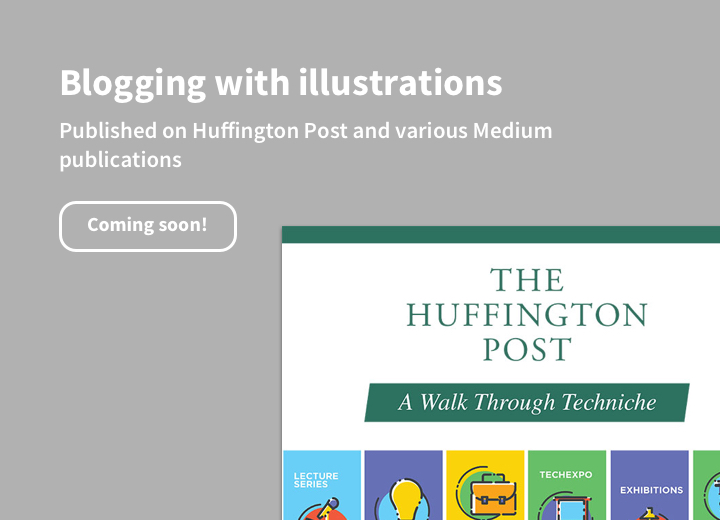
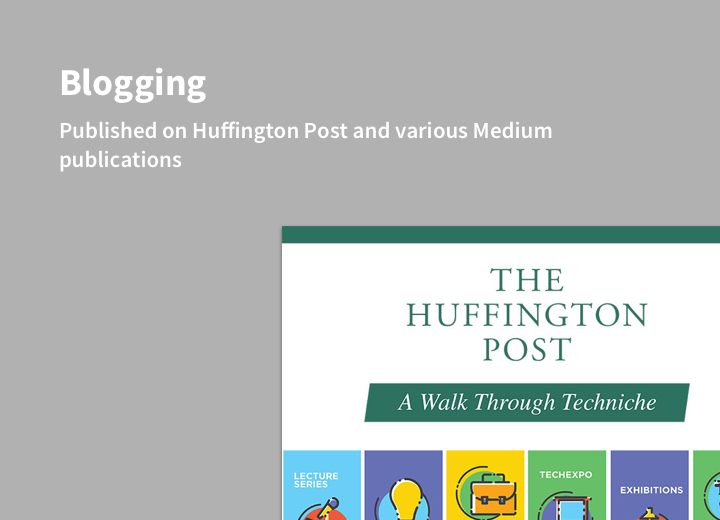
Adding blogs+dividing images

Changed region(s): [[0.0917, 0.3692, 0.3361, 0.4923], [0.275, 0.1231, 0.7028, 0.1846], [0.0611, 0.4, 0.0917, 0.4615]]

diff --git a/blog.html b/blog.html
@@ -73,164 +73,44 @@
         <header>
             <div class="container">
                 <div class="row">
-                    <div class="col-lg-12" style="margin-top:10%">                        
-                            <span class="align left" style="font-weight:700; font-size:50px; color:#f05455 !important"> Hello—I'm Chhavi!</span>
+                    <div class="col-lg-12" style="margin-top:3%">                     
+                            
+                            <img src="img/blog/blog0.jpg" class="img-responsive img-centered" alt="">
+                        
+                            <a href="https://www.huffingtonpost.com/entry/come-and-be-a-part-of-one-of-the-largest-techno-management_us_57a2a966e4b0f019c3e4c29a" target="_blank">
+                                <img src="img/blog/blog1.jpg" class="img-responsive img-centered" alt="">
+                            </a>
+
+                            <a href="https://medium.com/@chhavi.justme/open-source-design-and-life-lessons-abd43afb93c0" target="_blank">
+                            <img src="img/blog/blog2.jpg" class="img-responsive img-centered" alt="">
+                            </a>
+
+                            <a href="https://medium.com/@chhavi.justme/everyday-humor-8c6cef51f76b" target="_blank">
+                            <img src="img/blog/blog3.jpg" class="img-responsive img-centered" alt=""> 
+                            </a>                           
                             <br>
                             <br>
                             <br>
-                            <br>
-                            <span class="align left" style="font-size:24px">I'm a UX designer at Nutanix. I have a knack for writing for <br>interfaces to make them sound a bit more human.    
-                            </span>
-                            <br>
-                            <br>
-                            <br>                     
+                            <br>                           
+                                               
                     </div>
                 </div>
             </div>
-        </header>  
-
-        <!-- Writing Grid Section -->
-    <div id="content">
-        <section id="portfolio">
-            <div class="container">
-                <div class="row" style="margin-top:8%">
-                    <div>
-                        <span class=" col-lg-12 align left" style="font-size:18px;  font-weight:700; color:#f05455">WRITING FOR BRANDS AND INTERFACES</span>
-                        <span class="col-lg-12 align left" style="font-size:18px">I write to streamline the user flow, increasing the social media presence, and defining the tone and voice of a brand.  </span>
-                    </div>                  
-                </div>               
-
-
-                <div class="row" style="margin-top:3%">
-                    <div class="col-sm-4 portfolio-item filter ux">
-                        <a href="guideline.html" class="portfolio-link">
-                            <div class="caption pcaption">
-                                <div class="caption-content">
-                                    <!-- <span style="font-weight: 400; font-size: 20px;">User Personas, Wireframes <br> and Visual Design</span> -->
-                                </div>
-                            </div>
-                            <img src="img/thumbnails/Guideline.jpg" class="img-responsive" alt="">
-                        </a>
-                    </div>
-
-
-                    <div class="col-sm-4 portfolio-item filter ux">
-                            <a href="microcopy.html" class="portfolio-link">
-                                <div class="caption pcaption">
-                                    <div class="caption-content">
-                                        <!-- <span style="font-weight: 400; font-size: 20px;">User Research, Task Flows, <br>Wireframes and Visual Design</span>                                      -->
-                                    </div>
-                                </div>
-                                <img src="img/thumbnails/Microcopy.jpg" class="img-responsive" alt="">
-                            </a>
-                    </div>                    
-
-                    <div class="col-sm-4 portfolio-item filter ux filter challenges">
-                        <a href="cubical.html" class="portfolio-link">
-                            <div class="caption pcaption">
-                                <div class="caption-content">
-                                    <!-- <span style="font-weight: 400; font-size: 20px;">User Research, Wireframes <br>and User Testing</span>  -->
-                                </div>
-                            </div>
-                            <img src="img/thumbnails/Cubical.jpg" class="img-responsive" alt="">
-                        </a>
-                    </div>
-
-                    <div class="col-sm-4 portfolio-item filter ux">
-                            <a href="blog.html" class="portfolio-link">
-                                <div class="caption pcaption">
-                                    <div class="caption-content">
-                                        <!-- <span style="font-weight: 400; font-size: 20px;">User Research, Task Flows, <br>Wireframes and Visual Design</span>                                      -->
-                                    </div>
-                                </div>
-                                <img src="img/thumbnails/Blogging.jpg" class="img-responsive" alt="">
-                            </a>
-                    </div>    
-
-                    <div class="col-sm-4 portfolio-item filter ux">
-                            <a href="http://chhavishrivastava.com/skewedproject/" class="portfolio-link">
-                                <div class="caption pcaption">
-                                    <div class="caption-content">
-                                        <!-- <span style="font-weight: 400; font-size: 20px;">User Research, Task Flows, <br>Wireframes and Visual Design</span>                                      -->
-                                    </div>
-                                </div>
-                                <img src="img/thumbnails/SkewedRatio.jpg" class="img-responsive" alt="">
-                            </a>
-                    </div>    
-
-
-                </div>
-            </div>
-        </section>
-    </div>
-       
-       
-        
-        <!-- Design Grid Section -->
-        <div id="projects">
-        <section id="portfolio">
-            <div class="container">
-                <div class="row" style="margin-top:3%">
-                    <div>
-                        <span class=" col-lg-12 align left" style="font-size:18px;  font-weight:700; color:#f05455">BUILDING PRODUCTS</span>
-                        <span class="col-lg-12 align left" style="font-size:18px">I have worked extensively on designing for digital products, open source communities, and healthcare for the developing societies.  </span>
-                    </div>                  
-                </div>
-                
-
-
-                <div class="row" style="margin-top:3%">
-
-                    <div class="col-sm-4 portfolio-item filter ux">
-                        <a href="meb.html" class="portfolio-link">
-                            <div class="caption pcaption">
-                                <div class="caption-content">
-                                    <span style="font-weight: 400; font-size: 20px;">User Personas, Wireframes <br> and Visual Design</span>
-                                </div>
-                            </div>
-                            <img src="img/thumbnails/MeB.jpg" class="img-responsive" alt="">
-                        </a>
-                    </div>
-
-
-                    <div class="col-sm-4 portfolio-item filter ux">
-                            <a href="#" class="portfolio-link">
-                                <div class="caption pcaption">
-                                    <div class="caption-content">
-                                        <!-- <span style="font-weight: 400; font-size: 20px;">User Research, Task Flows, <br>Wireframes and Visual Design</span>                                      -->
-                                    </div>
-                                </div>
-                                <img src="img/thumbnails/Pragati.jpg" class="img-responsive" alt="">
-                            </a>
-                    </div>                    
-
-                    <div class="col-sm-4 portfolio-item filter ux filter challenges">
-                        <a href="#" class="portfolio-link">
-                            <div class="caption pcaption">
-                                <div class="caption-content">
-                                    <!-- <span style="font-weight: 400; font-size: 20px;">User Research, Wireframes <br>and User Testing</span>  -->
-                                </div>
-                            </div>
-                            <img src="img/thumbnails/Nutanix.jpg" class="img-responsive" alt="">
-                        </a>
-                    </div>                    
-                </div>
-            </div>          
-
-        </section>
-    </div>
-
-    
-
-    
-
-
-
-
-
-
-
+        </header>      
     </body>
+
+    <!-- Next Project -->
+    <div class="row" style="margin-top:2%">
+        <div class="col-lg-4 align right">
+        <span style="font-weight:300; font-size:18px;"> NEXT PROJECT</span>
+        <br>        
+        <span style="font-weight:300; font-size:25px;"> <a href="cubical.html">Increasing social media presence<strong>&nbsp;</strong>→</a></span>
+        <br>
+        <br>
+        <br>
+        </div>
+    </div>
+
 
     <!-- Footer -->
     <footer class="text-center white-text" id="">

diff --git a/guideline.html b/guideline.html
@@ -74,7 +74,20 @@
             <div class="container">
                 <div class="row">
                     <div class="col-lg-12" style="margin-top:3%">                     
-                            <img src="img/guideline/1_guideline.jpg" class="img-responsive img-centered" alt="">                                                  
+                            <img src="img/guideline/gl1.jpg" class="img-responsive img-centered" alt="">
+                            <img src="img/guideline/gl2.jpg" class="img-responsive img-centered" alt="">
+                            <img src="img/guideline/gl3.jpg" class="img-responsive img-centered" alt="">
+                            <img src="img/guideline/gl4.jpg" class="img-responsive img-centered" alt="">
+                            <img src="img/guideline/gl5.jpg" class="img-responsive img-centered" alt="">
+                            <img src="img/guideline/gl6.jpg" class="img-responsive img-centered" alt=""> 
+                            <img src="img/guideline/gl7.jpg" class="img-responsive img-centered" alt="">
+                            <img src="img/guideline/gl8.jpg" class="img-responsive img-centered" alt="">
+                            <img src="img/guideline/gl9.png" class="img-responsive img-centered" alt=""> 
+                            <img src="img/guideline/gl10.jpg" class="img-responsive img-centered" alt="">
+                            <img src="img/guideline/gl11.jpg" class="img-responsive img-centered" alt="">
+                            <img src="img/guideline/gl12.jpg" class="img-responsive img-centered" alt=""> 
+                            <img src="img/guideline/gl13.jpg" class="img-responsive img-centered" alt="">
+                            <img src="img/guideline/gl14.jpg" class="img-responsive img-centered" alt="">                      
                             <br>
                             <br>
                             <br>

diff --git a/microcopy.html b/microcopy.html
@@ -74,7 +74,14 @@
             <div class="container">
                 <div class="row">
                     <div class="col-lg-12" style="margin-top:3%">                     
-                            <img src="img/microcopy/1_microcopy.jpg" class="img-responsive img-centered" alt="">                                                  
+                            <img src="img/microcopy/mc1.jpg" class="img-responsive img-centered" alt="">
+                            <img src="img/microcopy/mc2.jpg" class="img-responsive img-centered" alt="">
+                            <img src="img/microcopy/mc3.jpg" class="img-responsive img-centered" alt="">
+                            <img src="img/microcopy/mc4.jpg" class="img-responsive img-centered" alt="">
+                            <img src="img/microcopy/mc5.jpg" class="img-responsive img-centered" alt="">
+                            <img src="img/microcopy/mc6.jpg" class="img-responsive img-centered" alt="">
+                            <img src="img/microcopy/mc7.jpg" class="img-responsive img-centered" alt="">
+                            <img src="img/microcopy/mc8.jpg" class="img-responsive img-centered" alt="">
                             <br>
                             <br>
                             <br>

diff --git a/cubical.html b/cubical.html
@@ -74,7 +74,11 @@
             <div class="container">
                 <div class="row">
                     <div class="col-lg-12" style="margin-top:3%">                     
-                            <img src="img/cubical/Cubical.jpg" class="img-responsive img-centered" alt="">                                                  
+                            <img src="img/cubical/sm1.jpg" class="img-responsive img-centered" alt="">
+                            <img src="img/cubical/sm2.jpg" class="img-responsive img-centered" alt="">
+                            <img src="img/cubical/sm3.jpg" class="img-responsive img-centered" alt="">
+                            <img src="img/cubical/sm4.jpg" class="img-responsive img-centered" alt="">
+                            <img src="img/cubical/sm5.jpg" class="img-responsive img-centered" alt="">                                                  
                             <br>
                             <br>
                             <br>
